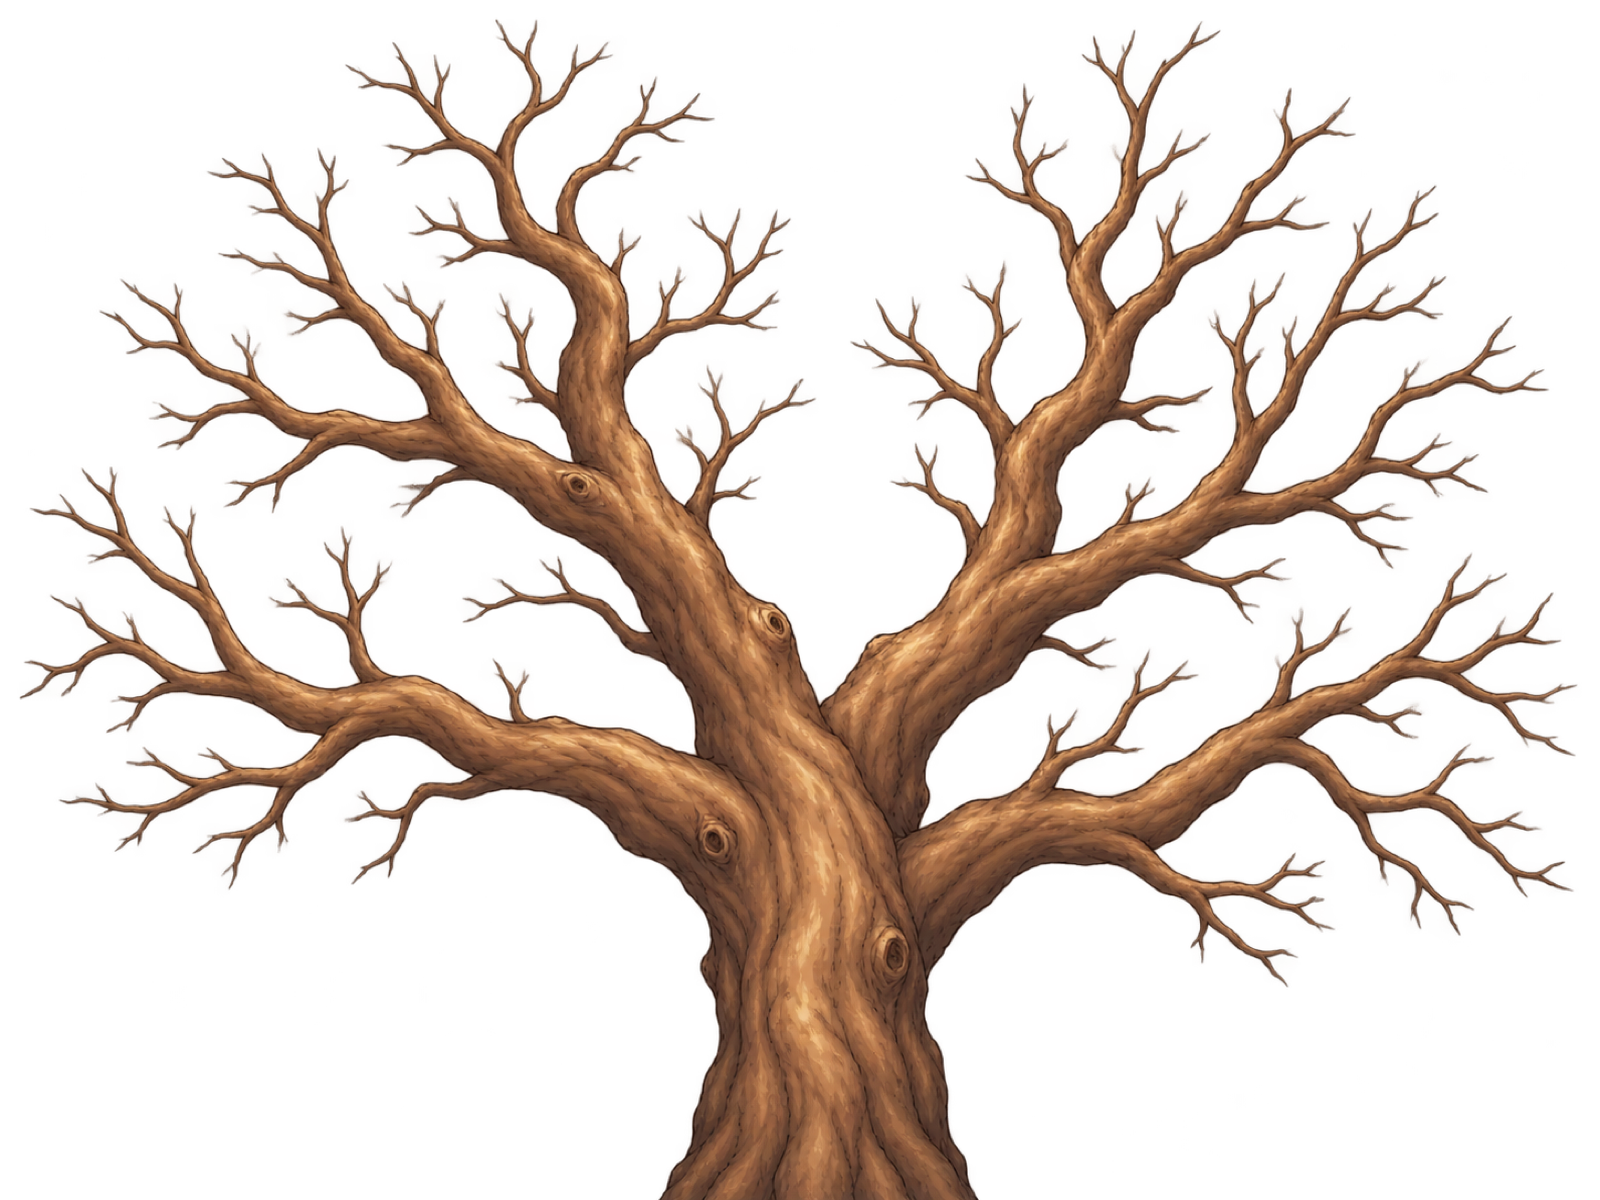
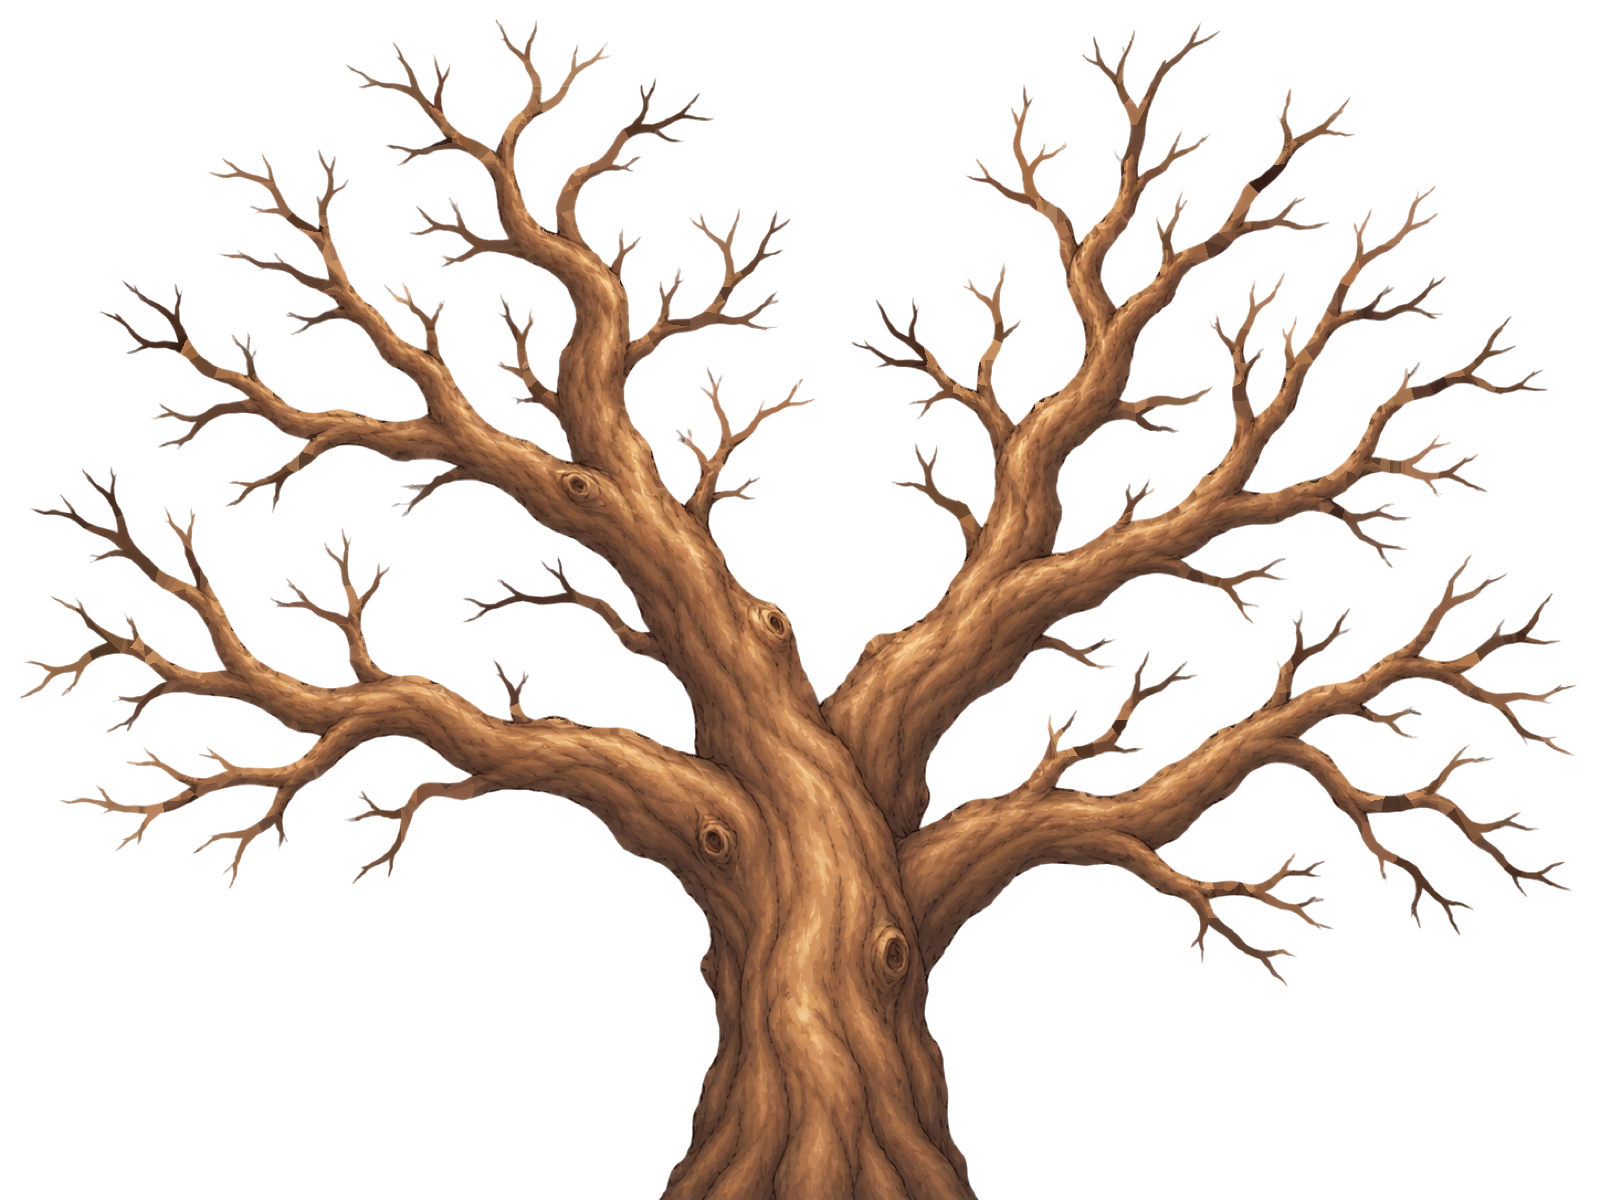
feat(site): preview terra's painted tree in place (?tree=raster)
Why: the co-creator has to judge the A2 composition inside the real stage,
not as a lone PNG. ?tree=raster swaps the SVG wood for the painted layer
(trunk base on the ground line, circular reveal over chapters 2-7) while
roots, cats and scaffolds keep working. The generated PNG's coloured matte
fringe is removed by pulling bark colour into the soft edge (deterministic
post-process, no repaint).

diff --git a/site/lib/roadmap-tree-render.js b/site/lib/roadmap-tree-render.js
@@ -183,7 +183,7 @@
     const defs = buildDefs(svg, data);
 
     const layers = {};
-    for (const name of ['soil', 'roots', 'ground', 'wood', 'scaffold', 'canopy', 'crown', 'labels', 'cats']) {
+    for (const name of ['soil', 'roots', 'ground', 'raster', 'wood', 'scaffold', 'canopy', 'crown', 'labels', 'cats']) {
       layers[name] = el('g', { class: `rt-layer rt-layer--${name}` }, svg);
     }
     el(
@@ -263,7 +263,33 @@
       item.el.setAttribute('transform', `${item.base} scale(${fmt(s)})`);
     }
 
+    // Illustrated-tree preview (?tree=raster): the painted wood layer replaces the SVG wood so the
+    // composition can be judged in place. 1600x1200 art, trunk base sits on the ground line.
+    let raster = null;
+    if (options.raster) {
+      svg.classList.add('rt-raster');
+      const w = 1000;
+      const h = (w * 1200) / 1600;
+      const clip = el('clipPath', { id: 'rt-clip-raster' }, svg.querySelector('defs'));
+      const circle = el('circle', { cx: V.cx, cy: V.ground, r: 0 }, clip);
+      const img = el(
+        'image',
+        {
+          href: options.raster,
+          x: V.cx - w / 2,
+          y: V.ground - h,
+          width: w,
+          height: h,
+          'clip-path': 'url(#rt-clip-raster)',
+          class: 'rt-raster-wood',
+        },
+        layers.raster,
+      );
+      raster = { img, circle, reach: Math.hypot(w / 2, h) + 20 };
+    }
+
     function update(G) {
+      if (raster) raster.circle.setAttribute('r', fmt(raster.reach * geo.clamp01((G - 2) / 5)));
       for (const node of tree.nodes) growWood(node, geo.progress(node, G));
       for (const leaf of tree.leaves) growSprout(leaf, geo.progress(leaf, G), true);
       for (const fruit of tree.fruits) growSprout(fruit, geo.progress(fruit, G), true);

diff --git a/site/roadmap.js b/site/roadmap.js
@@ -66,7 +66,9 @@
   document.addEventListener('DOMContentLoaded', () => {
     const svg = document.getElementById('rt-svg');
     const stage = document.getElementById('rt-stage');
-    const render = window.ClowderRoadmapRender.mount(svg, data, { lang: lang() });
+    const rasterTree =
+      new URLSearchParams(location.search).get('tree') === 'raster' ? 'assets/roadmap/tree/tree-wood.png' : null;
+    const render = window.ClowderRoadmapRender.mount(svg, data, { lang: lang(), raster: rasterTree });
     const cats = window.ClowderRoadmapCats.mount(render.layers.cats, render.layers.scaffold, data, render.tree);
     const chapters = Array.from(document.querySelectorAll('.rt-chapter'));
     fillLists();

diff --git a/site/roadmap.css b/site/roadmap.css
@@ -939,3 +939,11 @@ html.dark .rt-card-item {
     font-size: 0.98rem;
   }
 }
+
+/* ---------- Illustrated-tree preview (?tree=raster) ---------- */
+.rt-raster .rt-layer--wood,
+.rt-raster .rt-layer--canopy,
+.rt-raster .rt-layer--crown,
+.rt-raster .rt-layer--labels {
+  display: none;
+}
